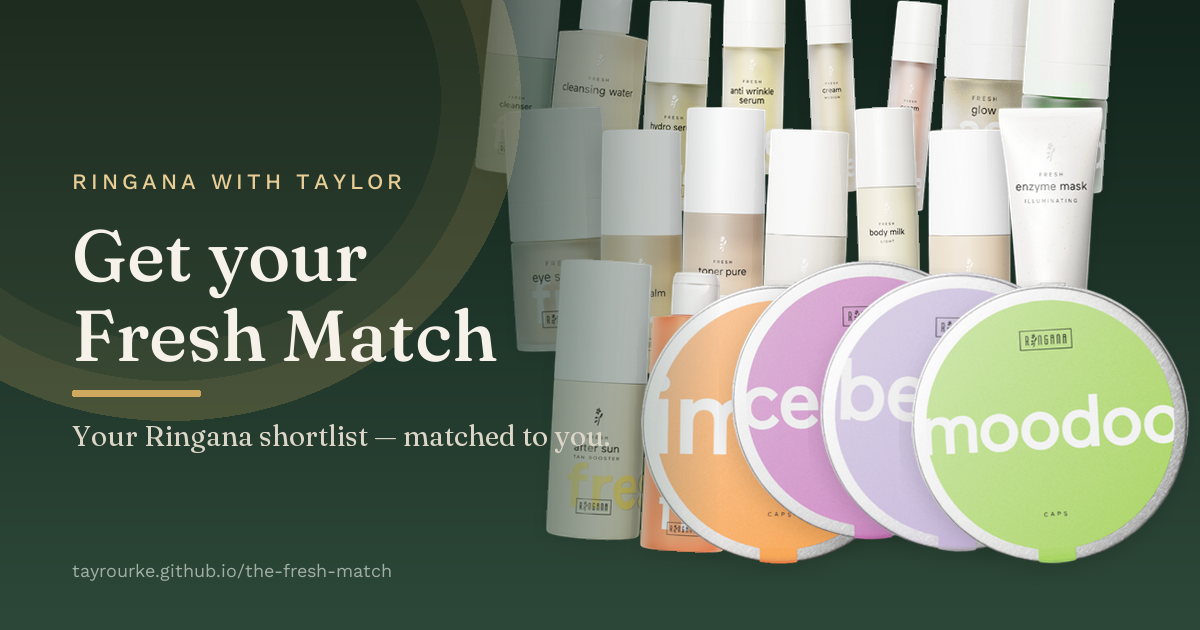
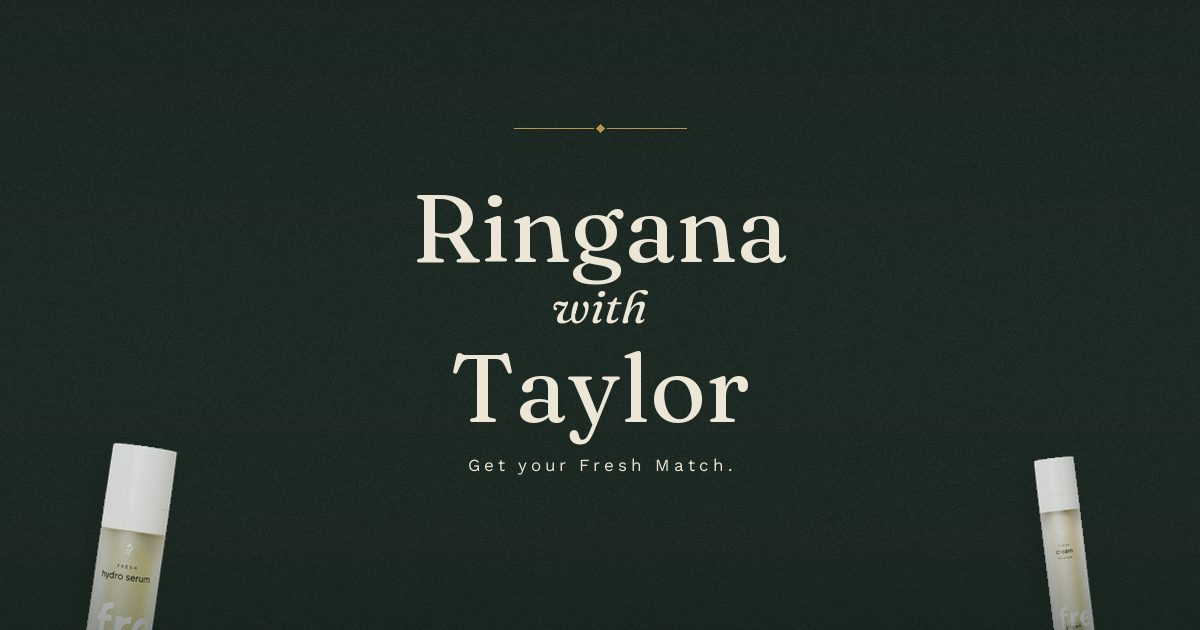
Refine share image to match the brand card.
Fewer products, centered Ringana with Taylor lockup, tracked tagline, no URL.

diff --git a/scripts/make-share-assets.py b/scripts/make-share-assets.py
@@ -1,193 +1,157 @@
 #!/usr/bin/env python3
-"""Generate favicon + classy OG share collage from product PNGs."""
+"""Generate favicon + artsy OG share image (brand-matched typography)."""
 
 from __future__ import annotations
 
-import random
 from pathlib import Path
 
-from PIL import Image, ImageDraw, ImageFilter, ImageFont, ImageChops
+from PIL import Image, ImageDraw, ImageFilter, ImageFont, ImageEnhance
 
 ROOT = Path(__file__).resolve().parents[1]
 PUBLIC = ROOT / "public"
 PRODUCTS = PUBLIC / "products"
 FONTS = Path(__file__).resolve().parent / "fonts"
 
-PINE = (28, 50, 39)
-PINE_DEEP = (18, 36, 28)
-PINE_MID = (45, 72, 56)
-BRASS = (207, 169, 94)
-BRASS_LIGHT = (232, 205, 148)
-LINEN = (246, 242, 234)
-
-# Curated bottles that read well small — variety of silhouettes
-PICKS = [
-    "fresh/fresh-cleanser.png",
-    "fresh/fresh-cleansing-water.png",
-    "fresh/fresh-hydro-serum.png",
-    "fresh/fresh-anti-wrinkle-serum.png",
-    "fresh/fresh-cream-medium.png",
-    "fresh/fresh-cream-rich.png",
-    "fresh/fresh-adds-glow.png",
-    "fresh/fresh-adds-repair.png",
-    "fresh/fresh-eye-serum.png",
-    "fresh/fresh-toner-calm.png",
-    "fresh/fresh-toner-pure.png",
-    "fresh/fresh-deodorant.png",
-    "fresh/fresh-body-milk-light.png",
-    "fresh/fresh-hand-balm.png",
-    "fresh/fresh-enzyme-mask.png",
-    "fresh/fresh-after-sun.png",
-    "fresh/fresh-shampoo-repair.png",
-    "caps/caps-immu.png",
-    "caps/caps-cerebro.png",
-    "caps/caps-beauty-hair.png",
-    "caps/caps-moodoo.png",
-    "packs/packs-abc.png",
-    "packs/pack-antiox.png",
-    "beyond/beyond-omega.png",
-]
+# Match Ringana-with-Taylor brand card
+PINE = (28, 50, 39)  # #1c3227-ish
+PINE_DEEP = (20, 34, 27)
+BRASS = (184, 149, 74)  # muted gold like the ornament
+CREAM = (236, 230, 214)  # soft cream like the brand card
 
 
 def load_font(name: str, size: int) -> ImageFont.FreeTypeFont:
-    path = FONTS / name
-    return ImageFont.truetype(str(path), size=size)
+    return ImageFont.truetype(str(FONTS / name), size=size)
 
 
-def rounded_rect(draw: ImageDraw.ImageDraw, box, radius, fill):
-    draw.rounded_rectangle(box, radius=radius, fill=fill)
+def paper_texture(size: tuple[int, int], base_rgb: tuple[int, int, int]) -> Image.Image:
+    """Subtle paper grain over deep pine — like the brand card."""
+    w, h = size
+    base = Image.new("RGB", size, base_rgb)
+    # soft vertical vignette
+    overlay = Image.new("RGBA", size, (0, 0, 0, 0))
+    od = ImageDraw.Draw(overlay)
+    for y in range(h):
+        t = abs(y - h / 2) / (h / 2)
+        a = int(28 * (t**1.4))
+        od.line([(0, y), (w, y)], fill=(0, 0, 0, a))
+    base = Image.alpha_composite(base.convert("RGBA"), overlay)
+
+    noise = Image.effect_noise((w, h), 28).convert("L")
+    noise = ImageEnhance.Contrast(noise).enhance(1.2)
+    grain = Image.merge("RGB", (noise, noise, noise)).convert("RGBA")
+    grain.putalpha(22)
+    return Image.alpha_composite(base, grain).convert("RGBA")
 
 
 def prepare_product(path: Path, target_h: int) -> Image.Image:
     im = Image.open(path).convert("RGBA")
-    # Trim near-transparent margins so bottles sit tighter
     alpha = im.split()[-1]
     bbox = alpha.getbbox()
     if bbox:
         im = im.crop(bbox)
     w, h = im.size
     scale = target_h / h
-    nw, nh = max(1, int(w * scale)), max(1, int(h * scale))
-    return im.resize((nw, nh), Image.Resampling.LANCZOS)
+    return im.resize((max(1, int(w * scale)), max(1, int(h * scale))), Image.Resampling.LANCZOS)
+
+
+def paste_product(canvas: Image.Image, prod: Image.Image, cx: int, cy: int, rot: float = 0):
+    shadow = Image.new("RGBA", (prod.width + 40, prod.height + 40), (0, 0, 0, 0))
+    s = Image.new("RGBA", prod.size, (0, 0, 0, 90))
+    s.putalpha(prod.split()[-1].point(lambda a: int(a * 0.4)))
+    shadow.paste(s, (12, 16), s)
+    shadow = shadow.filter(ImageFilter.GaussianBlur(14))
+
+    rotated = prod.rotate(rot, resample=Image.Resampling.BICUBIC, expand=True)
+    sh = shadow.rotate(rot, resample=Image.Resampling.BICUBIC, expand=True)
+    canvas.alpha_composite(sh, (int(cx - sh.width / 2), int(cy - sh.height / 2 + 10)))
+    canvas.alpha_composite(rotated, (int(cx - rotated.width / 2), int(cy - rotated.height / 2)))
+
+
+def draw_ornament(draw: ImageDraw.ImageDraw, cx: int, y: int, half_w: int = 70):
+    """Thin gold rule with diamond center — matches brand card."""
+    draw.line([(cx - half_w, y), (cx - 7, y)], fill=BRASS, width=1)
+    draw.line([(cx + 7, y), (cx + half_w, y)], fill=BRASS, width=1)
+    # diamond
+    d = 4
+    draw.polygon([(cx, y - d), (cx + d, y), (cx, y + d), (cx - d, y)], fill=BRASS)
+
+
+def text_width(draw: ImageDraw.ImageDraw, text: str, font: ImageFont.FreeTypeFont) -> int:
+    bbox = draw.textbbox((0, 0), text, font=font)
+    return bbox[2] - bbox[0]
+
+
+def draw_spaced(
+    draw: ImageDraw.ImageDraw,
+    text: str,
+    y: int,
+    font: ImageFont.FreeTypeFont,
+    fill,
+    canvas_w: int,
+    tracking: float = 0,
+):
+    """Centered text with optional letter-spacing (em-ish)."""
+    widths = []
+    for ch in text:
+        widths.append(text_width(draw, ch, font) if ch != " " else int(font.size * 0.35))
+    total = sum(widths) + tracking * max(0, len(text) - 1)
+    x = (canvas_w - total) / 2
+    for i, ch in enumerate(text):
+        draw.text((x, y), ch, font=font, fill=fill)
+        x += widths[i] + tracking
 
 
 def make_og() -> Image.Image:
     W, H = 1200, 630
-    base = Image.new("RGB", (W, H), PINE_DEEP)
+    base = paper_texture((W, H), PINE_DEEP)
     draw = ImageDraw.Draw(base)
 
-    # Atmospheric gradients
-    for y in range(H):
-        t = y / H
-        r = int(PINE_DEEP[0] * (1 - t) + PINE_MID[0] * t)
-        g = int(PINE_DEEP[1] * (1 - t) + PINE_MID[1] * t)
-        b = int(PINE_DEEP[2] * (1 - t) + PINE_MID[2] * t)
-        draw.line([(0, y), (W, y)], fill=(r, g, b))
+    font_display = load_font("Fraunces-400.ttf", 96)
+    font_with = load_font("Fraunces-400-Italic.ttf", 46)
+    font_tag = load_font("WorkSans-400.ttf", 17)
 
-    # Soft brass glow top-left (text side)
-    glow = Image.new("RGBA", (W, H), (0, 0, 0, 0))
-    gdraw = ImageDraw.Draw(glow)
-    for i, alpha in enumerate((55, 32, 16)):
-        pad = 40 * i
-        gdraw.ellipse(
-            (-180 + pad, -220 + pad, 520 - pad, 420 - pad),
-            fill=(*BRASS, alpha),
-        )
-    base = Image.alpha_composite(base.convert("RGBA"), glow).convert("RGBA")
+    # —— Exact brand-card hierarchy ——
+    draw_ornament(draw, W // 2, 128, half_w=86)
 
-    # Product collage layer
-    collage = Image.new("RGBA", (W, H), (0, 0, 0, 0))
-    rng = random.Random(42)
+    ringana, with_w, taylor = "Ringana", "with", "Taylor"
+    rw = text_width(draw, ringana, font_display)
+    ww = text_width(draw, with_w, font_with)
+    tw = text_width(draw, taylor, font_display)
 
-    existing = []
-    for rel in PICKS:
-        p = PRODUCTS / rel
-        if p.exists():
-            existing.append(p)
-    # Fill if some missing
-    if len(existing) < 18:
-        for p in sorted(PRODUCTS.rglob("*.png")):
-            if "lifestyle" in str(p):
-                continue
-            if p not in existing:
-                existing.append(p)
-            if len(existing) >= 22:
-                break
+    draw.text(((W - rw) / 2, 168), ringana, font=font_display, fill=CREAM)
+    draw.text(((W - ww) / 2, 278), with_w, font=font_with, fill=CREAM)
+    draw.text(((W - tw) / 2, 328), taylor, font=font_display, fill=CREAM)
 
-    # Positions: elegant right-side scatter in gentle arcs
-    slots = []
-    # Back row
-    for i in range(8):
-        slots.append((520 + i * 78, 70 + (i % 3) * 18, 210, -6 + (i % 5) * 2))
-    # Mid row
-    for i in range(7):
-        slots.append((560 + i * 82, 230 + (i % 2) * 22, 245, 4 - (i % 4) * 2))
-    # Front row
-    for i in range(6):
-        slots.append((600 + i * 90, 400 + (i % 3) * 12, 280, -3 + i))
-
-    for idx, (x, y, th, rot) in enumerate(slots):
-        if idx >= len(existing):
-            break
-        prod = prepare_product(existing[idx], th)
-        # Soft shadow
-        shadow = Image.new("RGBA", (prod.width + 24, prod.height + 24), (0, 0, 0, 0))
-        s = Image.new("RGBA", prod.size, (0, 0, 0, 70))
-        s.putalpha(prod.split()[-1].point(lambda a: int(a * 0.35)))
-        shadow.paste(s, (8, 12), s)
-        shadow = shadow.filter(ImageFilter.GaussianBlur(10))
-        rotated = prod.rotate(rot + rng.uniform(-2, 2), resample=Image.Resampling.BICUBIC, expand=True)
-        sh_rot = shadow.rotate(rot, resample=Image.Resampling.BICUBIC, expand=True)
-        collage.alpha_composite(sh_rot, (int(x - sh_rot.width / 2), int(y - sh_rot.height / 2 + 8)))
-        collage.alpha_composite(rotated, (int(x - rotated.width / 2), int(y - rotated.height / 2)))
-
-    # Left-to-right fade so text stays legible
-    fade = Image.new("L", (W, H), 255)
-    fdraw = ImageDraw.Draw(fade)
-    for x in range(W):
-        if x < 420:
-            a = 0
-        elif x < 720:
-            a = int(255 * ((x - 420) / 300))
-        else:
-            a = 255
-        fdraw.line([(x, 0), (x, H)], fill=a)
-
-    r, g, b, a = collage.split()
-    a = ImageChops.multiply(a, fade)
-    collage = Image.merge("RGBA", (r, g, b, a))
-
-    base = Image.alpha_composite(base, collage)
-
-    # Text
-    draw = ImageDraw.Draw(base)
-    font_eyebrow = load_font("WorkSans-500.ttf", 22)
-    font_title = load_font("Fraunces-500.ttf", 72)
-    font_sub = load_font("Fraunces-400.ttf", 28)
-    font_foot = load_font("WorkSans-400.ttf", 18)
-
-    eyebrow = "RINGANA WITH TAYLOR"
-    # letter-spacing simulation
-    ex_x = 72
-    for ch in eyebrow:
-        draw.text((ex_x, 168), ch, font=font_eyebrow, fill=BRASS_LIGHT)
-        bbox = draw.textbbox((0, 0), ch, font=font_eyebrow)
-        ex_x += (bbox[2] - bbox[0]) + 4
-
-    # Title — two lines for elegance
-    draw.text((72, 210), "Get your", font=font_title, fill=LINEN)
-    draw.text((72, 290), "Fresh Match", font=font_title, fill=LINEN)
-
-    # Brass rule
-    draw.rounded_rectangle((72, 390, 200, 396), radius=2, fill=BRASS)
-
-    draw.text(
-        (72, 418),
-        "Your Ringana shortlist — matched to you.",
-        font=font_sub,
-        fill=(220, 214, 200),
+    draw_spaced(
+        draw,
+        "Get your Fresh Match.",
+        455,
+        font_tag,
+        CREAM,
+        W,
+        tracking=4.0,
     )
-    draw.text((72, 560), "tayrourke.github.io/the-fresh-match", font=font_foot, fill=(160, 175, 162))
+
+    # Two products only — quiet corner still-life
+    still = [
+        (PRODUCTS / "fresh/fresh-hydro-serum.png", 220, 130, 555, -8, 0.85),
+        (PRODUCTS / "fresh/fresh-cream-medium.png", 185, 1065, 550, 7, 0.85),
+    ]
+    for path, th, cx, cy, rot, opac in still:
+        if not path.exists():
+            continue
+        prod = prepare_product(path, th)
+        r, g, b, a = prod.split()
+        a = a.point(lambda v, o=opac: int(v * o))
+        prod = Image.merge("RGBA", (r, g, b, a))
+        paste_product(base, prod, cx, cy, rot)
+
+    vig = Image.new("RGBA", (W, H), (0, 0, 0, 0))
+    vd = ImageDraw.Draw(vig)
+    for y in range(H - 100, H):
+        alpha = int(80 * ((y - (H - 100)) / 100))
+        vd.line([(0, y), (W, y)], fill=(*PINE_DEEP, alpha))
+    base = Image.alpha_composite(base, vig)
 
     return base.convert("RGB")
 
@@ -201,8 +165,6 @@ def make_favicon_png(size: int) -> Image.Image:
         radius=max(4, size // 5),
         fill=PINE,
     )
-    # brass accent arc
-    m = size // 2
     draw.arc(
         (size * 0.42, size * 0.08, size * 0.95, size * 0.55),
         start=200,
@@ -210,11 +172,7 @@ def make_favicon_png(size: int) -> Image.Image:
         fill=BRASS,
         width=max(1, size // 18),
     )
-    # F mark
-    try:
-        font = load_font("Fraunces-500.ttf", int(size * 0.55))
-    except Exception:
-        font = ImageFont.load_default()
+    font = load_font("Fraunces-500.ttf", int(size * 0.55))
     text = "F"
     bbox = draw.textbbox((0, 0), text, font=font)
     tw, th = bbox[2] - bbox[0], bbox[3] - bbox[1]
@@ -222,7 +180,7 @@ def make_favicon_png(size: int) -> Image.Image:
         ((size - tw) / 2 - bbox[0], (size - th) / 2 - bbox[1] - size * 0.02),
         text,
         font=font,
-        fill=LINEN,
+        fill=CREAM,
     )
     return im
 
@@ -231,8 +189,8 @@ def write_favicon_svg(path: Path):
     path.write_text(
         """<svg xmlns="http://www.w3.org/2000/svg" viewBox="0 0 32 32" fill="none">
   <rect width="32" height="32" rx="7" fill="#1c3227"/>
-  <path d="M22.5 6.5c3.2 1.2 5 4.2 4.2 7.4" stroke="#cfa95e" stroke-width="1.4" stroke-linecap="round" opacity="0.85"/>
-  <text x="16" y="22.5" text-anchor="middle" font-family="Georgia, 'Times New Roman', serif" font-size="15" font-weight="600" fill="#f6f2ea">F</text>
+  <path d="M22.5 6.5c3.2 1.2 5 4.2 4.2 7.4" stroke="#b8954a" stroke-width="1.4" stroke-linecap="round" opacity="0.9"/>
+  <text x="16" y="22.5" text-anchor="middle" font-family="Georgia, 'Times New Roman', serif" font-size="15" font-weight="600" fill="#ece6d6">F</text>
 </svg>
 """,
         encoding="utf-8",
@@ -246,13 +204,9 @@ def main():
     print("wrote", og_path, og.size)
 
     write_favicon_svg(PUBLIC / "favicon.svg")
-    print("wrote favicon.svg")
-
-    fav32 = make_favicon_png(32)
-    fav32.save(PUBLIC / "favicon-32.png", "PNG")
-    fav180 = make_favicon_png(180)
-    fav180.save(PUBLIC / "apple-touch-icon.png", "PNG")
-    print("wrote favicon-32.png + apple-touch-icon.png")
+    make_favicon_png(32).save(PUBLIC / "favicon-32.png", "PNG")
+    make_favicon_png(180).save(PUBLIC / "apple-touch-icon.png", "PNG")
+    print("wrote favicons")
 
 
 if __name__ == "__main__":
